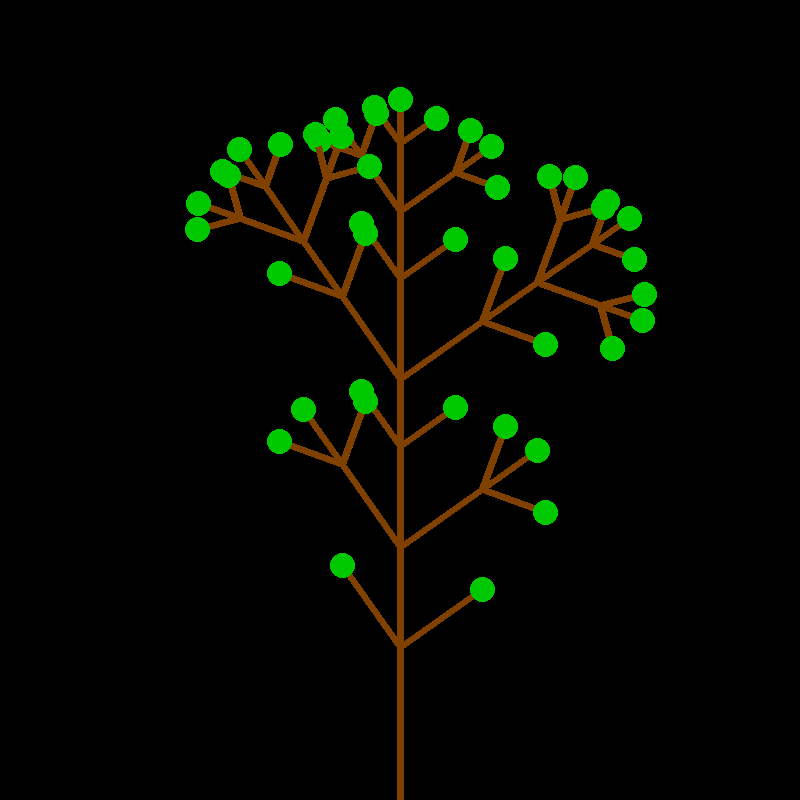
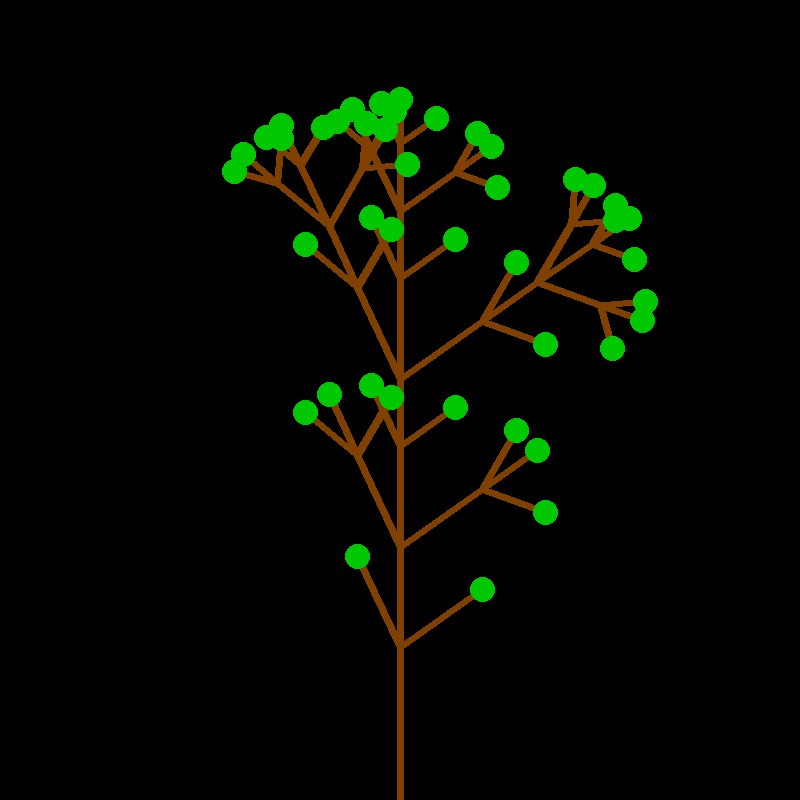
add tree chapter

diff --git a/tree/README.rst b/tree/README.rst
@@ -1,0 +1,16 @@
+
+Fractal Canopy
+==============
+
+.. figure:: tree.png
+
+With a recursive combination of lines, you can draw tree-like structures.
+The example code uses the `PIL` library for easier drawing of lines.
+
+This code is a good starting point to develop your own branching patterns and leaves.
+
+.. literalinclude:: tree.py
+
+.. seealso::
+
+   `Fractal Canopy on Wikipedia <https://en.wikipedia.org/wiki/Fractal_canopy>`__

diff --git a/index.rst b/index.rst
@@ -95,6 +95,7 @@ Fractals
 
    fractal_square/README.rst
    dragon_curve/README.rst
+   tree/README.rst
    mandelbrot/README.rst
 
 ----
